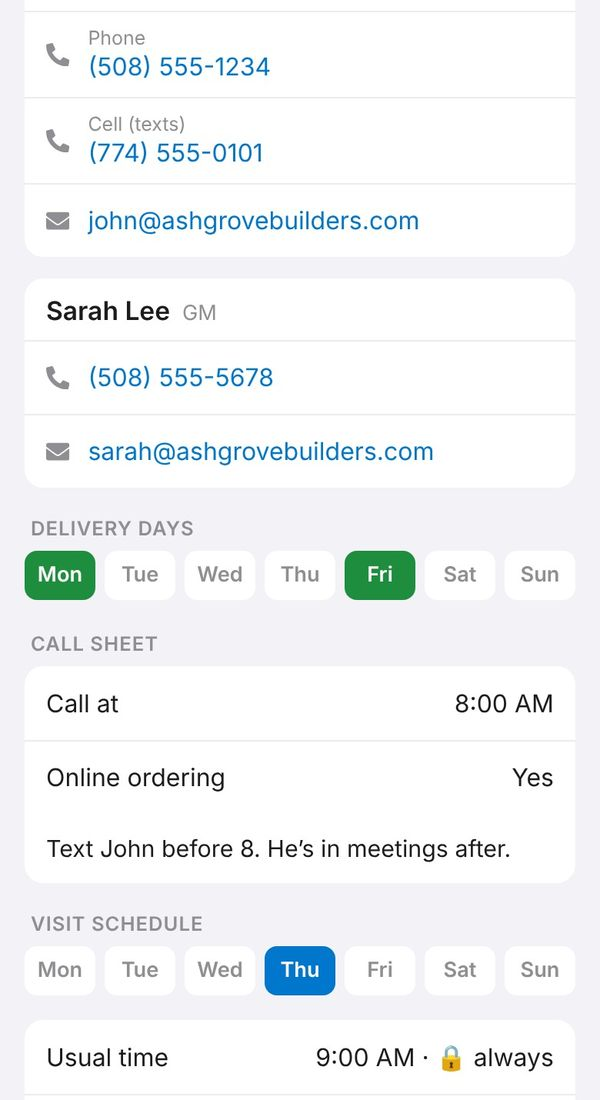
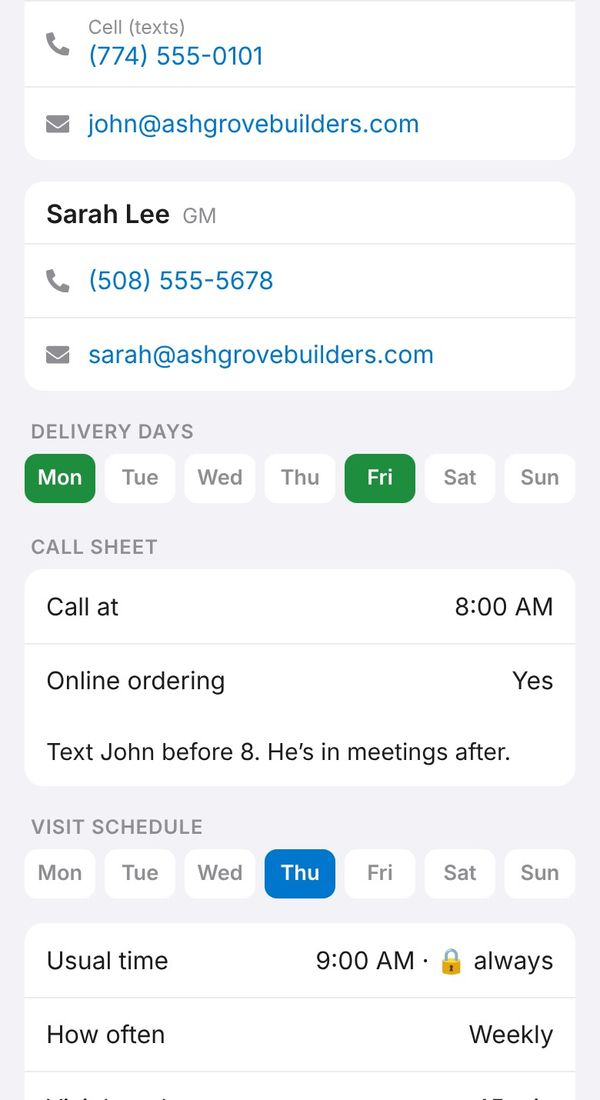
Website: neutral Call Sheet wording, no competitors, fresh screenshots (review branch)
Claude-Session: https://claude.ai/code/session_01GU8ZYJY1RTiGJHzDRY8oqr

diff --git a/website/features.html b/website/features.html
@@ -34,7 +34,7 @@
       <a href="/" class="fp-back">&larr; Back To Home</a>
       <span class="eyebrow">Features</span>
       <h1 class="fp-title">Built Around Your Whole Workday.</h1>
-      <p class="fp-lede">Crumb isn't just a contact list or a route planner. It keeps your accounts, your stops, your appointments, your follow-ups and your order calls in one app on your phone.</p>
+      <p class="fp-lede">Crumb isn't just a contact list or a route planner. It keeps your accounts, your stops, your appointments, your follow-ups and your call days in one app on your phone.</p>
       <div class="ctas fp-ctas">
         <a href="/#join" class="btn btn-red">Join The Beta</a>
         <button type="button" class="btn btn-line" id="watch-demo">
@@ -57,19 +57,18 @@
       <div class="fp-text">
         <span class="eyebrow">Customers &amp; Prospects</span>
         <h2>Every Account, Ready Before You Walk In.</h2>
-        <p class="fp-sum">Who they are, who to ask for, when you visit and who else they buy from.</p>
+        <p class="fp-sum">Who they are, who to ask for and when you visit.</p>
         <ul class="fp-list">
           <li><h3>Customers And Prospects In One Place</h3><p>Two lists that work the same way. Search by name, address or account number.</p></li>
           <li><h3>Every Contact, One Tap Away</h3><p>Call or text the owner, buyer or manager, open the address in Maps, or send an email.</p></li>
           <li><h3>Visit Schedules</h3><p>Set the day, the time and how often you go: weekly, every 2 or 3 weeks, monthly or every 2 months.</p></li>
-          <li><h3>Competitor Tracking</h3><p>Note who else they buy from. Pick from a list or add your own.</p></li>
           <li><h3>Prospect Stages And Conversion</h3><p>Move a prospect from Cold to Ready To Close. When they sign, convert them to a customer and their notes, contacts and schedule come with them.</p></li>
           <li><h3>Groups For Multiple Locations</h3><p>One business with several locations stays together, whether each spot is a customer or a prospect.</p></li>
         </ul>
       </div>
       <div class="fp-shots" aria-label="Screenshots">
-        <figure><img src="/img/f/cust.jpg" alt="A customer's screen with contacts, address, competitors and visit schedule" loading="lazy" width="600" height="1298"><figcaption>A Customer</figcaption></figure>
-        <figure><img src="/img/f/prospect.jpg" alt="A prospect's screen with stage, group locations and competitors" loading="lazy" width="600" height="1298"><figcaption>A Prospect</figcaption></figure>
+        <figure><img src="/img/f/cust.jpg" alt="A customer's screen with background, contacts, address and visit schedule" loading="lazy" width="600" height="1298"><figcaption>A Customer</figcaption></figure>
+        <figure><img src="/img/f/prospect.jpg" alt="A prospect's screen with stage and group locations" loading="lazy" width="600" height="1298"><figcaption>A Prospect</figcaption></figure>
         <figure><img src="/img/f/groups.jpg" alt="The Prospects list with one business's three locations grouped together" loading="lazy" width="600" height="1298"><figcaption>Grouped Locations</figcaption></figure>
       </div>
     </div>
@@ -147,19 +146,19 @@
     <div class="wrap fp-grid">
       <div class="fp-text">
         <span class="eyebrow">Call Sheet</span>
-        <h2>Order Day, Covered.</h2>
-        <p class="fp-sum">Know who orders today, how to reach them and who you still haven't heard from.</p>
+        <h2>Call Day, Covered.</h2>
+        <p class="fp-sum">For accounts you check in with by phone on a set day: reorders, weekly check-ins, service confirmations. Know who to call, how to reach them and who you haven't heard back from.</p>
         <ul class="fp-list">
-          <li><h3>Who Orders Today</h3><p>Customers grouped by order day, Sunday through Saturday, worked out from their delivery days.</p></li>
-          <li><h3>Everything For The Call</h3><p>Account number, contact, phone, the best time to call, whether they order online, and your call note.</p></li>
-          <li><h3>Check Off Orders</h3><p>Tick Ordered as each one comes in, with a running count like "3 of 6 ordered".</p></li>
-          <li><h3>Fresh Every Order Day</h3><p>Checkmarks are saved by date, so the next order day starts clean.</p></li>
+          <li><h3>Who To Call Today</h3><p>Accounts sorted by call day, Sunday through Saturday, based on each account's service days.</p></li>
+          <li><h3>Everything For The Call</h3><p>Account number, contact, phone, the best time to call and your call note.</p></li>
+          <li><h3>Check Them Off</h3><p>Tick each account off as it's handled, with a running count at the top.</p></li>
+          <li><h3>Fresh Every Call Day</h3><p>Checkmarks are saved by date, so the next call day starts clean.</p></li>
           <li><h3>Hand It Off</h3><p>Share the week as an Excel file with a tab for each day, or print it, so whoever covers for you knows who to call.</p></li>
         </ul>
       </div>
       <div class="fp-shots fp-shots-2" aria-label="Screenshots">
-        <figure><img src="/img/f/callsheet.jpg" alt="Call Sheet for Thursday with accounts, contacts and Ordered checkboxes" loading="lazy" width="600" height="1298"><figcaption>Thursday's Call Sheet</figcaption></figure>
-        <figure><img src="/img/f/callsettings.jpg" alt="A customer's delivery days, call time, online ordering and call note" loading="lazy" width="600" height="1100"><figcaption>Call Details On Each Customer</figcaption></figure>
+        <figure><img src="/img/f/callsheet.jpg" alt="Call Sheet for Thursday with accounts, contacts and checkboxes" loading="lazy" width="600" height="1298"><figcaption>Thursday's Call Sheet</figcaption></figure>
+        <figure><img src="/img/f/callsettings.jpg" alt="A customer's service days, call time and call note" loading="lazy" width="600" height="1100"><figcaption>Call Details On Each Customer</figcaption></figure>
       </div>
     </div>
   </section>
